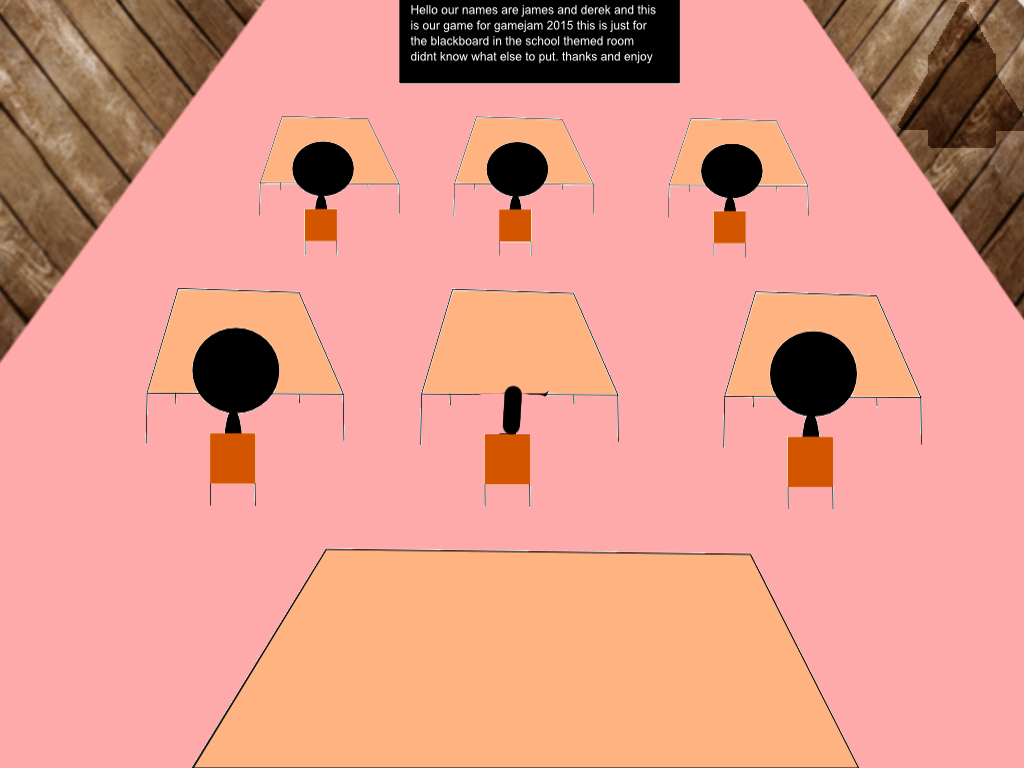
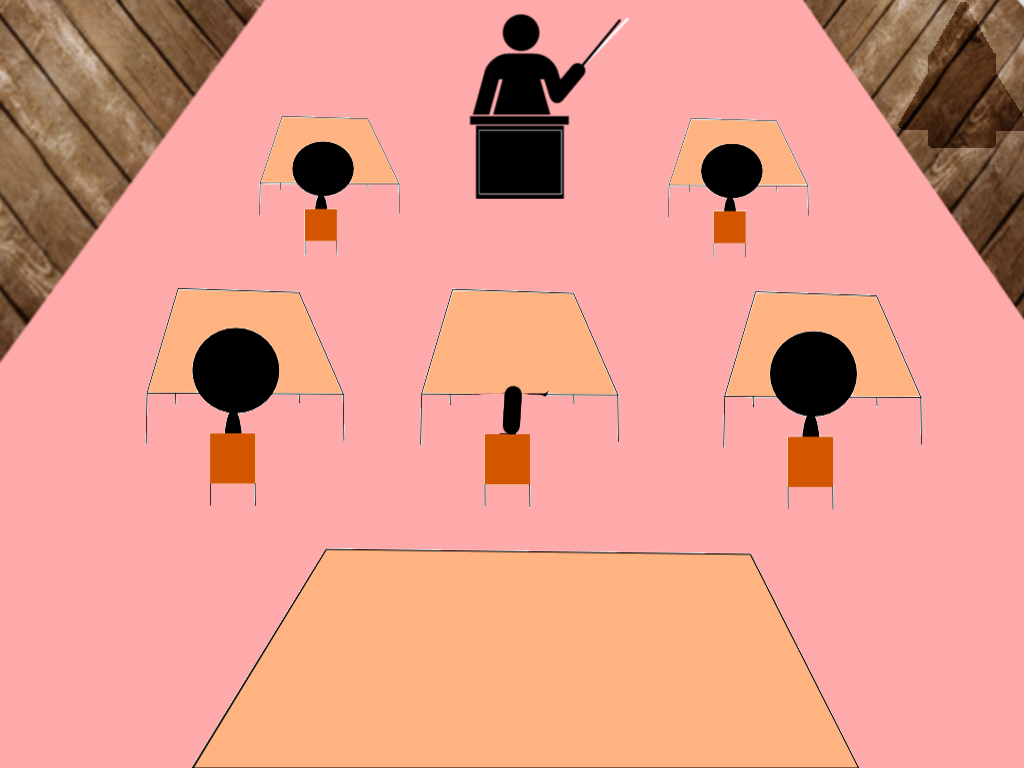
Finished classroom section

Changed region(s): [[0.375, 0.0, 0.6875, 0.3438]]

diff --git a/core/src/ml/derek/ggj2015/collections/items/classroom/Teacher.java b/core/src/ml/derek/ggj2015/collections/items/classroom/Teacher.java
@@ -1,10 +1,9 @@
-package ml.derek.ggj2015.collections.items.sciencefair;
+package ml.derek.ggj2015.collections.items.classroom;
 
 import com.badlogic.gdx.Gdx;
 import com.badlogic.gdx.graphics.g2d.SpriteBatch;
 import com.badlogic.gdx.math.Vector2;
 import com.badlogic.gdx.utils.Array;
-import ml.derek.ggj2015.collections.items.classroom.Rocket;
 import ml.derek.ggj2015.logic.ClickableArea;
 import ml.derek.ggj2015.logic.Item;
 import ml.derek.ggj2015.logic.Room;
@@ -14,12 +13,12 @@ import ml.derek.ggj2015.logic.Room;
  * Copyright © 2015 Derek Sewell.
  * All rights reserved.
  */
-public class Table extends ClickableArea
+public class Teacher extends ClickableArea
 {
 	public Rocket scienceProject;
 	private Vector2 scienceProjectPos;
 
-	public Table()
+	public Teacher()
 	{
 		super();
 	}
@@ -27,23 +26,17 @@ public class Table extends ClickableArea
 	@Override
 	public void onClick(Room room, Array<Item> inventory)
 	{
-		Gdx.app.log("input", "clicked table");
 
-		if(scienceProject != null)
-		{
-			room.carrying = scienceProject;
-			scienceProject = null;
-		}
+
 	}
 
 	@Override
 	public void onUse(Item item, Room room, Array<Item> inventory)
 	{
-		if(item instanceof Rocket)
+		if(item instanceof Rocket && ((Rocket) item).first)
 		{
-			scienceProject = (Rocket) item;
-			room.carrying = null;
-
+			item.destory(room, inventory);
+			room.carrying = new Diploma();
 		}
 	}
 

diff --git a/core/src/ml/derek/ggj2015/collections/rooms/ClassRoom.java b/core/src/ml/derek/ggj2015/collections/rooms/ClassRoom.java
@@ -5,10 +5,7 @@ import com.badlogic.gdx.graphics.Texture;
 import com.badlogic.gdx.graphics.g2d.TextureRegion;
 import com.badlogic.gdx.math.Vector2;
 import ml.derek.ggj2015.RenderManager;
-import ml.derek.ggj2015.collections.items.classroom.Borris;
-import ml.derek.ggj2015.collections.items.classroom.Paper;
-import ml.derek.ggj2015.collections.items.classroom.RocketBody;
-import ml.derek.ggj2015.collections.items.classroom.RocketEngine;
+import ml.derek.ggj2015.collections.items.classroom.*;
 import ml.derek.ggj2015.collections.items.universal.Gateway;
 import ml.derek.ggj2015.logic.Room;
 import ml.derek.ggj2015.logic.RoomSwitcher;
@@ -28,6 +25,7 @@ public class ClassRoom extends Room
 		items.put(new RocketEngine(), new Vector2(50, RenderManager.HEIGHT - 759));
 		items.put(new RocketBody(), new Vector2(890, RenderManager.HEIGHT - 148));
 		items.put(new Gateway("items/classroom/door.png", ScienceFair.class, roomSwitcher), new Vector2(37, RenderManager.HEIGHT - 317));
+		putAreaSize(new Teacher(), new Vector2(397, 1), new Vector2(279, 201));
 
 		music = Gdx.audio.newMusic(Gdx.files.internal("music/classroom.mp3"));
 	}

diff --git a/core/src/ml/derek/ggj2015/collections/items/sciencefair/Judge.java b/core/src/ml/derek/ggj2015/collections/items/sciencefair/Judge.java
@@ -4,6 +4,7 @@ import com.badlogic.gdx.Gdx;
 import com.badlogic.gdx.graphics.g2d.SpriteBatch;
 import com.badlogic.gdx.math.Vector2;
 import com.badlogic.gdx.utils.Array;
+import com.badlogic.gdx.utils.ObjectMap;
 import ml.derek.ggj2015.collections.items.classroom.Cash;
 import ml.derek.ggj2015.collections.items.classroom.Rocket;
 import ml.derek.ggj2015.logic.ClickableArea;
@@ -36,7 +37,24 @@ public class Judge extends ClickableArea
 	{
 		if(item instanceof Cash)
 		{
-			item.destory(room, inventory);
+			Table table = null;
+
+			for(ObjectMap.Entry<Item, Vector2> pair : room.getItems())
+			{
+				Item roomItem = pair.key;
+				if(roomItem instanceof Table)
+				{
+					table = (Table) roomItem;
+				}
+			}
+
+			if(table != null && table.scienceProject != null)
+			{
+				table.scienceProject.setFirstPlace();
+				//finally destroy the cash
+				item.destory(room, inventory);
+			}
+
 		}
 	}
 

diff --git a/core/src/ml/derek/ggj2015/collections/rooms/ScienceFair.java b/core/src/ml/derek/ggj2015/collections/rooms/ScienceFair.java
@@ -21,9 +21,9 @@ public class ScienceFair extends Room
 	public ScienceFair(RoomSwitcher roomSwitcher)
 	{
 		super(new TextureRegion(new Texture("backgrounds/sciencefair.png")), roomSwitcher);
-		putArea(new Table(), new Vector2(218, 373), new Vector2(625, 648));
+		putAreaSize(new Table(), new Vector2(253, 289), new Vector2(356, 357));
 		putAreaSize(new GatewayArea(ClassRoom.class, roomSwitcher), new Vector2(109, 0), new Vector2(227, 280));
-		putAreaSize(new Judge(), new Vector2(352, 0), new Vector2(193, 383));
+		putAreaSize(new Judge(), new Vector2(352, 0), new Vector2(193, 274));
 	}
 
 }

diff --git a/core/src/ml/derek/ggj2015/Core.java b/core/src/ml/derek/ggj2015/Core.java
@@ -57,7 +57,7 @@ public class Core extends ApplicationAdapter
 		};
 
 		rooms = new Array<Room>();
-		rooms.add(new Womb(roomSwitcher));
+		//rooms.add(new Womb(roomSwitcher));
 		rooms.add(new ClassRoom(roomSwitcher));
 		rooms.add(new ScienceFair(roomSwitcher));
 
@@ -68,8 +68,9 @@ public class Core extends ApplicationAdapter
 	public void render()
 	{
 		Room room = rooms.get(currentRoom);
-		if(room.music != null && !room.music.isPlaying())
-			room.music.play();
+
+		if(currentMusic != null && !currentMusic.isPlaying())
+			currentMusic.play();
 
 		if(room.isFinished())
 		{

diff --git a/core/src/ml/derek/ggj2015/collections/items/classroom/Diploma.java b/core/src/ml/derek/ggj2015/collections/items/classroom/Diploma.java
@@ -1,0 +1,19 @@
+package ml.derek.ggj2015.collections.items.classroom;
+
+import com.badlogic.gdx.graphics.Texture;
+import com.badlogic.gdx.graphics.g2d.TextureRegion;
+import ml.derek.ggj2015.logic.Item;
+
+/**
+ * Created by Derek Sewell on 24/01/15.
+ * Copyright © 2015 Derek Sewell.
+ * All rights reserved.
+ */
+public class Diploma extends Item
+{
+	public Diploma()
+	{
+		super(new TextureRegion(new Texture("items/classroom/diploma.png")));
+	}
+
+}

diff --git a/core/src/ml/derek/ggj2015/collections/items/classroom/Rocket.java b/core/src/ml/derek/ggj2015/collections/items/classroom/Rocket.java
@@ -11,9 +11,17 @@ import ml.derek.ggj2015.logic.Item;
  */
 public class Rocket extends Item
 {
+	public boolean first = false;
 	public Rocket()
 	{
 		super(new TextureRegion(new Texture("items/classroom/rocket.png")));
+	}
+
+	public void setFirstPlace()
+	{
+		first = true;
+		getTexture().getTexture().dispose();
+		setTexture(new TextureRegion(new Texture("items/classroom/rocket-first-place.png")));
 	}
 
 

diff --git a/core/src/ml/derek/ggj2015/collections/items/classroom/Borris.java b/core/src/ml/derek/ggj2015/collections/items/classroom/Borris.java
@@ -36,8 +36,6 @@ public class Borris extends Item
 	{
 		if(item instanceof Paper)
 		{
-			//Open the door
-			Gdx.app.log("input", "attempted door use");
 			happy = true;
 			setTexture(new TextureRegion(new Texture("items/classroom/borris-happy.png")));
 			item.destory(room, inventory);
